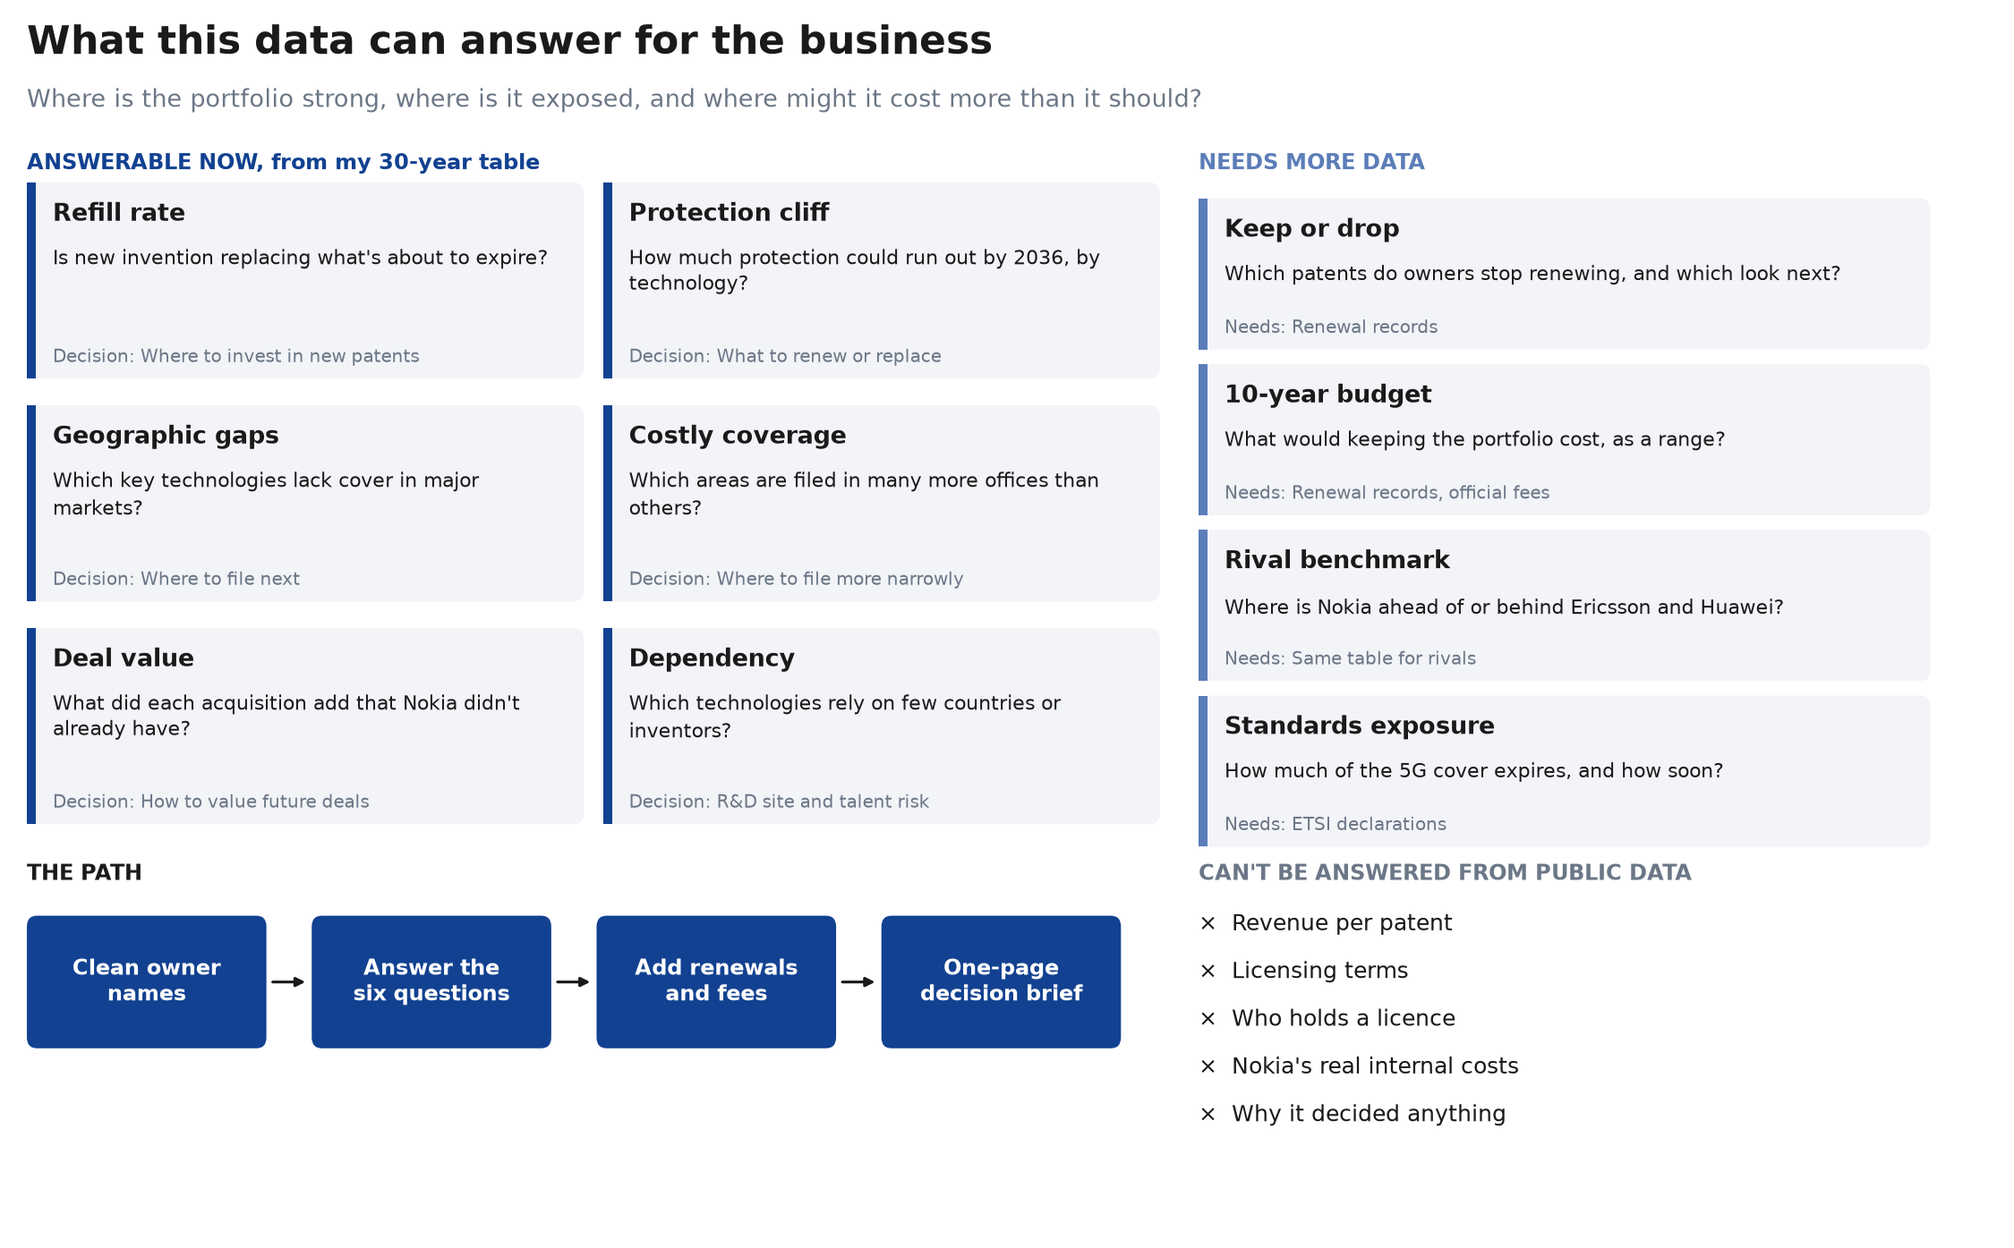
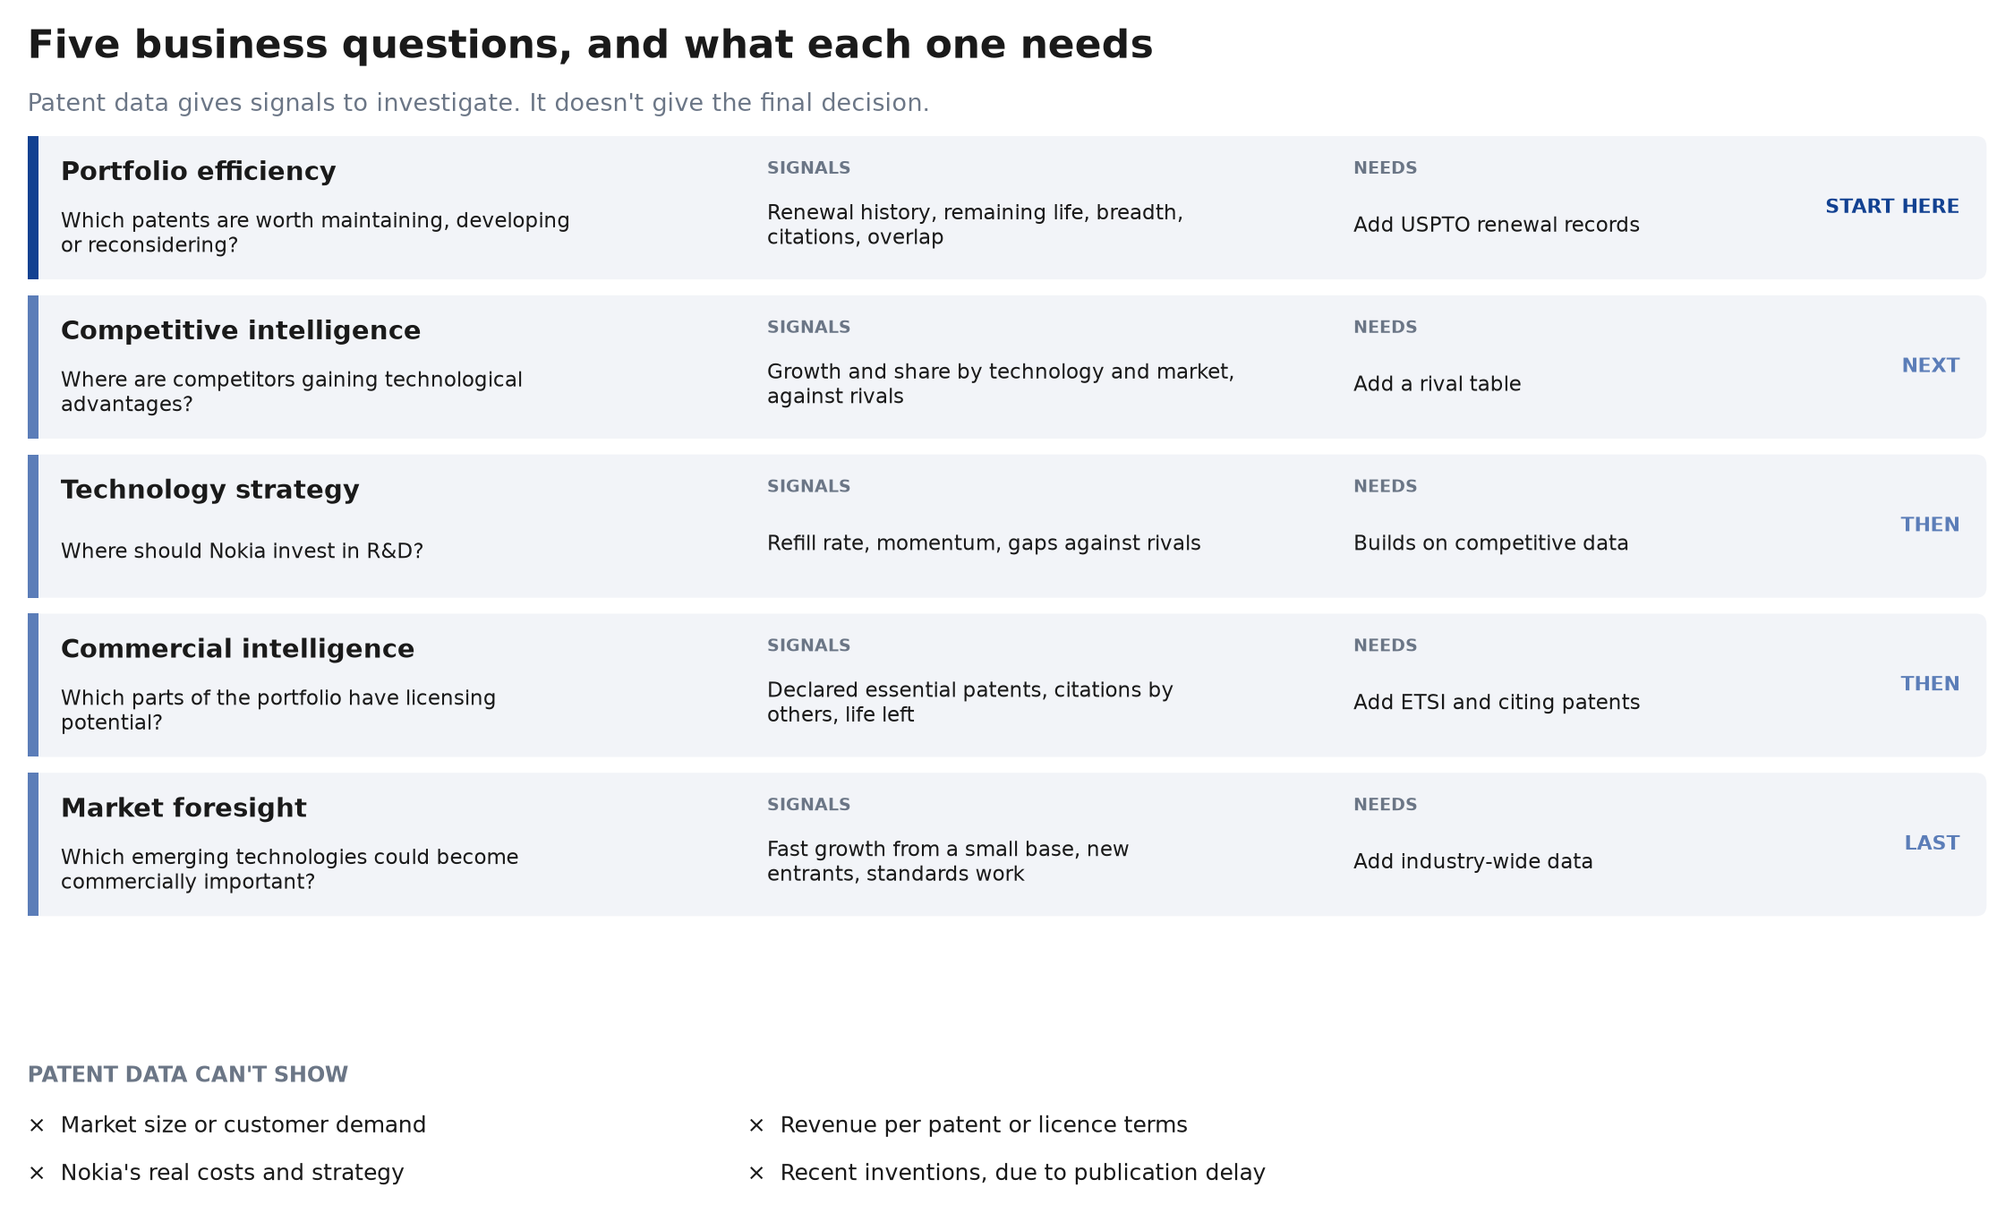
Reorganise strategy around five business questions

diff --git a/src/make_question_map.py b/src/make_question_map.py
@@ -8,89 +8,67 @@ from matplotlib.patches import FancyBboxPatch
 IMG = Path(__file__).resolve().parents[1] / "docs/img"
 ACCENT, MID, MUTED, INK, CARD, EMPTY = "#124191", "#5B7DB8", "#6B7686", "#1A1A1A", "#F2F4F8", "#DDE2EA"
 
-NOW = [
-    ("Refill rate", "Is new invention replacing what's about to expire?", "Where to invest in new patents"),
-    ("Protection cliff", "How much protection could run out by 2036, by technology?", "What to renew or replace"),
-    ("Geographic gaps", "Which key technologies lack cover in major markets?", "Where to file next"),
-    ("Costly coverage", "Which areas are filed in many more offices than others?", "Where to file more narrowly"),
-    ("Deal value", "What did each acquisition add that Nokia didn't already have?", "How to value future deals"),
-    ("Dependency", "Which technologies rely on few countries or inventors?", "R&D site and talent risk"),
+QUESTIONS = [
+    ("Portfolio efficiency", "Which patents are worth maintaining, developing or reconsidering?",
+     "Renewal history, remaining life, breadth, citations, overlap", "Add USPTO renewal records", "START HERE"),
+    ("Competitive intelligence", "Where are competitors gaining technological advantages?",
+     "Growth and share by technology and market, against rivals", "Add a rival table", "NEXT"),
+    ("Technology strategy", "Where should Nokia invest in R&D?",
+     "Refill rate, momentum, gaps against rivals", "Builds on competitive data", "THEN"),
+    ("Commercial intelligence", "Which parts of the portfolio have licensing potential?",
+     "Declared essential patents, citations by others, life left", "Add ETSI and citing patents", "THEN"),
+    ("Market foresight", "Which emerging technologies could become commercially important?",
+     "Fast growth from a small base, new entrants, standards work", "Add industry-wide data", "LAST"),
 ]
-MORE = [
-    ("Keep or drop", "Which patents do owners stop renewing, and which look next?", "Renewal records"),
-    ("10-year budget", "What would keeping the portfolio cost, as a range?", "Renewal records, official fees"),
-    ("Rival benchmark", "Where is Nokia ahead of or behind Ericsson and Huawei?", "Same table for rivals"),
-    ("Standards exposure", "How much of the 5G cover expires, and how soon?", "ETSI declarations"),
-]
-NEVER = ["Revenue per patent", "Licensing terms", "Who holds a licence", "Nokia's real internal costs", "Why it decided anything"]
+LIMITS = ["Market size or customer demand", "Revenue per patent or licence terms", "Nokia's real costs and strategy", "Recent inventions, due to publication delay"]
 
-
-def card(ax, x, y, w, h, title, body, foot, color, width=50):
-    ax.add_patch(FancyBboxPatch((x, y), w, h, boxstyle="round,pad=0,rounding_size=0.08", fc=CARD, ec="none"))
-    ax.add_patch(FancyBboxPatch((x, y), .07, h, boxstyle="square,pad=0", fc=color, ec="none"))
-    ax.text(x + .2, y + h - .24, title, fontsize=13, fontweight="bold", color=INK, va="center")
-    ax.text(x + .2, y + h - .48, "\n".join(wrap(body, width)), fontsize=10.5, color=INK, va="top", linespacing=1.3)
-    ax.text(x + .2, y + .16, foot, fontsize=9.5, color=MUTED, va="center")
-
-
-fig, ax = plt.subplots(figsize=(15, 9.3))
+fig, ax = plt.subplots(figsize=(15, 9.1))
 ax.set_xlim(0, 15)
-ax.set_ylim(0, 9.3)
+ax.set_ylim(0, 9.1)
 ax.axis("off")
-ax.text(.15, 8.95, "What this data can answer for the business", fontsize=21, fontweight="bold", color=INK)
-ax.text(.15, 8.55, "Where is the portfolio strong, where is it exposed, and where might it cost more than it should?", fontsize=13, color=MUTED)
-ax.text(.15, 8.08, "ANSWERABLE NOW, from my 30-year table", fontsize=11.5, fontweight="bold", color=ACCENT)
-for i, (t, b, f) in enumerate(NOW):
-    card(ax, .15 + (i % 2) * 4.45, 6.5 - (i // 2) * 1.68, 4.3, 1.48, t, b, "Decision: " + f, ACCENT)
-ax.text(9.2, 8.08, "NEEDS MORE DATA", fontsize=11.5, fontweight="bold", color=MID)
-for i, (t, b, f) in enumerate(MORE):
-    card(ax, 9.2, 6.72 - i * 1.25, 5.65, 1.14, t, b, "Needs: " + f, MID, width=74)
-ax.text(9.2, 2.72, "CAN'T BE ANSWERED FROM PUBLIC DATA", fontsize=11.5, fontweight="bold", color=MUTED)
-for i, t in enumerate(NEVER):
-    ax.text(9.2, 2.34 - i * .36, "×  " + t, fontsize=12, color=INK)
-ax.text(.15, 2.72, "THE PATH", fontsize=11.5, fontweight="bold", color=INK)
-STEPS = ["Clean owner\nnames", "Answer the\nsix questions", "Add renewals\nand fees", "One-page\ndecision brief"]
-for i, t in enumerate(STEPS):
-    x = .15 + i * 2.2
-    ax.add_patch(FancyBboxPatch((x, 1.45), 1.85, 1.0, boxstyle="round,pad=0,rounding_size=0.08", fc=ACCENT, ec="none"))
-    ax.text(x + .925, 1.95, t, ha="center", va="center", color="white", fontsize=11.5, fontweight="bold")
-    if i < 3:
-        ax.annotate("", xy=(x + 2.18, 1.95), xytext=(x + 1.87, 1.95), arrowprops=dict(arrowstyle="-|>", color=INK, lw=1.5))
+ax.text(.15, 8.72, "Five business questions, and what each one needs", fontsize=21, fontweight="bold", color=INK)
+ax.text(.15, 8.32, "Patent data gives signals to investigate. It doesn't give the final decision.", fontsize=13, color=MUTED)
+H, GAP = 1.08, .12
+for i, (t, q, sig, need, step) in enumerate(QUESTIONS):
+    y = 7.05 - i * (H + GAP)
+    color = ACCENT if i == 0 else MID
+    ax.add_patch(FancyBboxPatch((.15, y), 14.7, H, boxstyle="round,pad=0,rounding_size=0.08", fc=CARD, ec="none"))
+    ax.add_patch(FancyBboxPatch((.15, y), .08, H, boxstyle="square,pad=0", fc=color, ec="none"))
+    ax.text(.4, y + H - .28, t, fontsize=14, fontweight="bold", color=INK, va="center")
+    ax.text(.4, y + .34, "\n".join(wrap(q, 48)), fontsize=11, color=INK, va="center")
+    ax.text(5.7, y + H - .25, "SIGNALS", fontsize=9, fontweight="bold", color=MUTED, va="center")
+    ax.text(5.7, y + .4, "\n".join(wrap(sig, 42)), fontsize=11, color=INK, va="center")
+    ax.text(10.1, y + H - .25, "NEEDS", fontsize=9, fontweight="bold", color=MUTED, va="center")
+    ax.text(10.1, y + .4, need, fontsize=11, color=INK, va="center")
+    ax.text(14.65, y + H / 2, step, fontsize=10.5, fontweight="bold", color=color, va="center", ha="right")
+ax.text(.15, 1.0, "PATENT DATA CAN'T SHOW", fontsize=11.5, fontweight="bold", color=MUTED)
+for i, t in enumerate(LIMITS):
+    ax.text(.15 + (i % 2) * 5.4, .62 - (i // 2) * .36, "×  " + t, fontsize=12, color=INK)
 fig.tight_layout(pad=.4)
 fig.savefig(IMG / "question_map.png", dpi=150)
 
-# Which data each question needs
-BLOCKS = ["Inventions", "Filing office", "Dates", "Technology", "Origin", "Inventors", "Renewals", "Fees", "Rival data", "Standards"]
+BLOCKS = ["Inventions", "Filing office", "Dates", "Technology", "Origin", "Renewals", "Fees", "Rival data", "Citing patents", "Standards", "Industry-wide"]
 NEEDS = {
-    "Refill rate": "Inventions Dates Technology",
-    "Protection cliff": "Inventions Dates Technology",
-    "Geographic gaps": "Inventions Filing_office Technology",
-    "Costly coverage": "Inventions Filing_office Technology",
-    "Deal value": "Inventions Technology Origin",
-    "Dependency": "Inventions Technology Inventors",
-    "Keep or drop": "Inventions Dates Technology Renewals",
-    "10-year budget": "Inventions Filing_office Dates Renewals Fees",
-    "Rival benchmark": "Inventions Dates Technology Origin Rival_data",
-    "Standards exposure": "Inventions Dates Standards",
+    "Portfolio efficiency": [0, 1, 2, 3, 5, 6, 8],
+    "Competitive intelligence": [0, 1, 2, 3, 7],
+    "Technology strategy": [0, 2, 3, 4, 7],
+    "Commercial intelligence": [0, 1, 2, 3, 8, 9],
+    "Market foresight": [0, 2, 3, 9, 10],
 }
-fig, ax = plt.subplots(figsize=(12, 6.2))
-for r, (q, need) in enumerate(NEEDS.items()):
-    need = need.replace("_", " ")
-    for c, b in enumerate(BLOCKS):
-        on = b in need
-        missing = c >= 6
-        ax.scatter(c, r, s=210 if on else 34, color=(MID if missing else ACCENT) if on else EMPTY, zorder=2)
+fig, ax = plt.subplots(figsize=(12, 4.3))
+for r, need in enumerate(NEEDS.values()):
+    for c in range(len(BLOCKS)):
+        on = c in need
+        ax.scatter(c, r, s=220 if on else 34, color=(MID if c >= 5 else ACCENT) if on else EMPTY, zorder=2)
 ax.set_xticks(range(len(BLOCKS)), BLOCKS, rotation=35, ha="left", color=INK, fontsize=11)
 ax.xaxis.tick_top()
 ax.set_yticks(range(len(NEEDS)), list(NEEDS), color=INK, fontsize=12)
-ax.invert_yaxis()
-ax.axvline(5.5, color=MUTED, lw=1, ls=(0, (4, 4)))
-ax.axhline(5.5, color=MUTED, lw=1, ls=(0, (4, 4)))
+ax.axvline(4.5, color=MUTED, lw=1, ls=(0, (4, 4)))
 ax.tick_params(length=0)
 for s in ax.spines.values():
     s.set_visible(False)
-ax.text(2.5, 10.05, "In my table", ha="center", color=ACCENT, fontweight="bold", fontsize=11)
-ax.text(7.5, 10.05, "Not collected yet", ha="center", color=MID, fontweight="bold", fontsize=11)
-ax.set_ylim(10.3, -.6)
+ax.set_ylim(5, -.6)
+ax.text(2, 4.72, "In my table", ha="center", color=ACCENT, fontweight="bold", fontsize=11)
+ax.text(7.5, 4.72, "Not collected yet", ha="center", color=MID, fontweight="bold", fontsize=11)
 fig.tight_layout()
 fig.savefig(IMG / "question_data_matrix.png", dpi=150)

diff --git a/docs/strategy.md b/docs/strategy.md
@@ -2,17 +2,47 @@
 
 I started by following whatever the data showed next. This page sets a method: start from a decision someone has to make, then work back to the data. [Here's why I changed approach](approach-changes.md).
 
-This is my outside view of what a portfolio team needs. Nokia's real priorities may differ, and the results are signals rather than proof.
+This is my outside view. Nokia's real priorities may differ, and patent data gives signals to investigate rather than final answers.
 
-## The central question
+![Five business questions, and what each one needs](img/question_map.png)
 
-> Across the last 30 years, where is the portfolio strong, where is it exposed, and where might it be costing more than it should?
+## The five questions
 
-![What this data can answer for the business](img/question_map.png)
+| Question | What I can show | What I can't show |
+|---|---|---|
+| **Portfolio efficiency:** which patents are worth maintaining, developing or reconsidering? | A shortlist based on renewal history, remaining life, breadth, citations and overlap | The final decision, which needs legal review and internal licensing value |
+| **Competitive intelligence:** where are competitors gaining technological advantages? | Growth and share by technology and market, against rivals | Whether more patents means better technology or products |
+| **Technology strategy:** where should Nokia invest in R&D? | Where the portfolio is thinning, and where rivals are moving | Whether the investment would pay off, which needs market and cost data |
+| **Commercial intelligence:** which parts of the portfolio have licensing potential? | Candidates with declared standards links, outside citations and life left | Actual licensing value, terms or licensees |
+| **Market foresight:** which emerging technologies could become commercially important? | Fast growth from a small base, new entrants and standards activity | Commercial demand, and the latest inventions because of publication delay |
 
 ## What each question needs
 
 ![Which data each question needs](img/question_data_matrix.png)
+
+## Order of work
+
+1. **Portfolio efficiency.** It's closest to the job posting, and renewal records can be used without scanning the big BigQuery table.
+2. **Competitive intelligence.** A rival table also feeds the next question.
+3. **Technology strategy.** It combines my portfolio view with the rival view.
+4. **Commercial intelligence.** It adds ETSI declarations and the patents citing Nokia's.
+5. **Market foresight.** It needs the widest data, so it comes last.
+
+Each one ends in a short brief covering the finding, the evidence, the limits and the decision it supports.
+
+## How the earlier questions fit
+
+They're now measures inside the five questions:
+
+| Earlier question | Now part of |
+|---|---|
+| Protection cliff, Costly coverage | Portfolio efficiency |
+| Geographic gaps | Competitive intelligence, once compared with rivals |
+| Refill rate, Dependency | Technology strategy |
+| Deal value | Portfolio efficiency and Commercial intelligence |
+| Keep or drop, 10-year budget | Portfolio efficiency |
+| Rival benchmark | Competitive intelligence |
+| Standards exposure | Commercial intelligence and Market foresight |
 
 ## What the data is made of
 
@@ -26,48 +56,14 @@ This is my outside view of what a portfolio team needs. Nokia's real priorities 
 | **People and places** | `inventors`, `inventor_countries` | Where the inventing happens |
 | **Connections** | `cited_publications` | What each patent builds on |
 
-## Answerable with my table now
-
-| Business question | Decision it supports | Measure | Main limit |
-|---|---|---|---|
-| **Refill rate:** is new invention replacing what's about to expire? | Where to invest in new patents | New inventions against inventions reaching 20 years, by technology | Recent years are incomplete because of publication delays |
-| **Protection cliff:** how much protection could run out by 2036? | What to renew or replace | Filing date + 20 years, by technology | An estimate: patents can lapse earlier, and term rules can move the date |
-| **Geographic gaps:** which key technologies lack cover in major markets? | Where to file next | Share of inventions filed in each office, by technology | Filing is not the same as a granted patent |
-| **Costly coverage:** which areas are filed in many more offices than others? | Where to file more narrowly | Offices per invention | Shows breadth, not actual money spent |
-| **Deal value:** what did each acquisition add that Nokia didn't already have? | How to value future deals | Inventions by origin and technology, and how much they overlap | Names can be out of date |
-| **Dependency:** which technologies rely on few countries or inventors? | R&D site and talent risk | Share held by the top countries and inventors | 18% of publications lack inventor country |
-
-## Needs more data
-
-| Business question | What's missing |
-|---|---|
-| Which patents are still alive? | USPTO fee records or PATSTAT legal events |
-| Which patents should be dropped? | Renewal history and a measure of value |
-| What will the portfolio cost over 10 years? | Official fees for each office, plus assumptions |
-| How does Nokia compare with rivals? | The same table for Ericsson, Huawei and others |
-| Which patents matter for 5G? | ETSI declarations |
-| Which patents have the most influence? | Who cites them, from another search of the full table |
-
-## Can't be answered from public data
-
-- Revenue or return per patent
-- Licensing terms and who holds a licence
-- Nokia's actual internal costs and its reasons for each decision
-
-## The plan
-
-1. **Clean the base:** done for now, with [corrected US counts](../data/processed/us_30y_recount.csv) and [checked history](sources.md).
-2. **Answer the six questions** above from my table.
-3. **Add renewal data and fees** to reach Keep or drop and the 10-year budget.
-4. **Write a decision brief:** one page on strengths, exposures and where to look for savings.
-
 ## Rule for each new question
 
 Before running a query, I write down:
 
-1. **The decision** it would inform
-2. **The measure** I'd use
-3. **What result would change my mind**
-4. **The main limit** of the data
+1. **Which of the five questions** it serves
+2. **The decision** it would inform
+3. **The measure** I'd use
+4. **What result would change my mind**
+5. **The main limit** of the data
 
-If I can't name the decision, it goes in a parking list instead of the plan. The same goes for anything that only confirms what's already obvious, like "Nokia moved to 5G".
+If it doesn't serve one of the five, or the answer is already obvious, the query doesn't get run.

diff --git a/docs/approach-changes.md b/docs/approach-changes.md
@@ -15,7 +15,7 @@ I got annoyed with running random queries. Each result suggested another questio
 | **Choosing a query** | It seemed interesting | It has to inform a named decision |
 | **Unit of analysis** | Mostly owner names and listings | Inventions (patent families) |
 | **Data source** | The 2.88 TB table each time | My own 30-year working table |
-| **Result** | A trail of facts | Six answerable business questions and a path to a decision brief |
+| **Result** | A trail of facts | Five business questions, in a set order, each ending in a brief |
 
 ## What changed along the way
 
@@ -25,17 +25,19 @@ I got annoyed with running random queries. Each result suggested another questio
 4. **Isolated the data.** Building one working table means later questions don't have to rescan the source table. It used about 289 GB once.
 5. **Paused to set a strategy.** I listed what the data can and can't answer, then rebuilt the questions around decisions.
 6. **Dropped a query.** I deleted the technology-over-time query before running it, because it only confirmed the obvious on its own.
+7. **Raised the questions to business level.** My first list was mostly measures, like when patents expire. I replaced it with five questions a company would actually ask: technology strategy, competitive intelligence, commercial intelligence, portfolio efficiency and market foresight. The earlier measures now sit inside them.
 
 ## The rule I use now
 
 Before running a query, I write down:
 
-1. **The decision** it would inform
-2. **The measure** I'd use
-3. **What result would change my mind**
-4. **The main limit** of the data
+1. **Which of the five questions** it serves
+2. **The decision** it would inform
+3. **The measure** I'd use
+4. **What result would change my mind**
+5. **The main limit** of the data
 
-If I can't name the decision, or the answer is already obvious, the query doesn't get run.
+If it doesn't serve one of the five, or the answer is already obvious, the query doesn't get run.
 
 ## What I kept from the exploration
 

diff --git a/README.md b/README.md
@@ -14,7 +14,7 @@ The rest of this page walks through the work with screenshots.
 
 This isn't affiliated with Nokia, and it uses only public data.
 
-**Status:** I've built a working table of **72,207 inventions filed in the last 30 years**, across 64 patent offices, and recounted the US figures from it. Next I'm answering the six questions in the strategy.
+**Status:** I've built a working table of **72,207 inventions filed in the last 30 years**, across 64 patent offices, and recounted the US figures from it. Next I'm working through [five business questions](docs/strategy.md), starting with portfolio efficiency.
 
 ## What I've found so far
 
@@ -128,7 +128,7 @@ I then [recounted the US figures](sql/08_recount_us_30y.sql) from that table, wh
 
 At this point I was running queries without a clear purpose, so I stopped and [changed my approach](docs/approach-changes.md). The [analysis strategy](docs/strategy.md) now starts from the decisions the work should support.
 
-![What this data can answer for the business](docs/img/question_map.png)
+![Five business questions, and what each one needs](docs/img/question_map.png)
 
 ## What these numbers can't tell you
 
